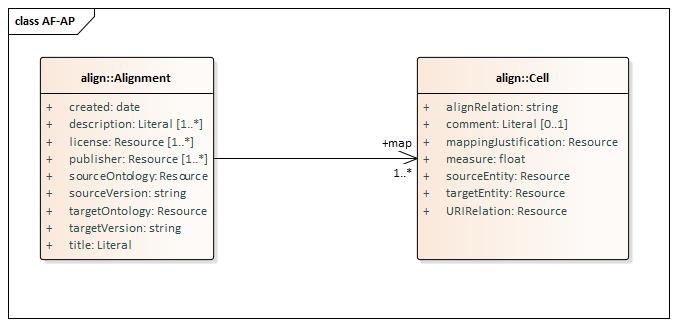
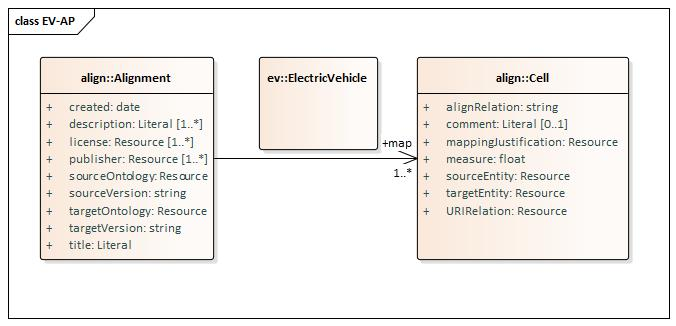
Applying changes from commit d254b9c88d013ba6c291551ca3da96aa7c431da9

Changed region(s): [[0.3728, 0.1534, 0.5902, 0.4908], [0.0621, 0.0307, 0.0932, 0.092]]

diff --git a/doc/application-profile/ev-ap/index.html b/doc/application-profile/ev-ap/index.html
@@ -99,7 +99,7 @@
               <div class="head" role="metainfo" id="metainfo">
               <dl>
               <dt>Source</dt><dd><a href="https://github.com/SEMICeu/EV-AP/tree/1.0.0/releases/1.0.0">https://github.com/SEMICeu/EV-AP/tree/1.0.0/releases/1.0.0</a></dd>
-              <!--<dt>Changelog</dt><dd><a href="git@uri.semic.eu-thema:SEMICeu/uri.semic.eu-thema.git/blob/8a6225d9e1b6374529c9ea7b6d677d2810afb8b2/CHANGELOG">git@uri.semic.eu-thema:SEMICeu/uri.semic.eu-thema.git/blob/8a6225d9e1b6374529c9ea7b6d677d2810afb8b2/CHANGELOG</a></dd>-->
+              <!--<dt>Changelog</dt><dd><a href="git@uri.semic.eu-thema:SEMICeu/uri.semic.eu-thema.git/blob/2217f96af037456034beb5d91a4e877f62d91733/CHANGELOG">git@uri.semic.eu-thema:SEMICeu/uri.semic.eu-thema.git/blob/2217f96af037456034beb5d91a4e877f62d91733/CHANGELOG</a></dd>-->
               <dt>Feedback</dt><dd><a href="https://github.com/SEMICeu/EV-AP/issues">https://github.com/SEMICeu/EV-AP/issues</a></dd>
               <!--<dt>Registry of standards</dt><dd><a href="EV-AP">EV-AP</a></dd>-->
 
@@ -169,6 +169,7 @@
                       |
                       <a href="#Alignment">Alignment</a> |
                       <a href="#Cell">Cell</a> |
+                      <a href="#ElectricVehicle">Electric Vehicle</a> |
                     </p>
                   </div>
                   
@@ -611,6 +612,22 @@
                   </table>
                 </div>
       			  
+            </div>
+            
+              <div class="region region--no-space-top">
+              <h3 class="h3" id="ElectricVehicle"><a href="http://data.europa.eu/m8g/ElectricVehicle " data-toggle="tooltip" data-content="http://data.europa.eu/m8g/ElectricVehicle " data-placement="right">Electric Vehicle</a></h3>
+                <div class="region region--no-space-top">
+                  <dl>
+                    <dt>Definition</dt><dd>vehicle with atleast one elecrtic engine</dd>
+                    
+		    
+                    <dt>Properties</dt>
+		    
+                    <dd>No properties have been defined for this entity.</dd>
+                    
+                  </dl>
+                </div>
+		
             </div>
             
 

diff --git a/doc/application-profile/ev-ap/index_en.html b/doc/application-profile/ev-ap/index_en.html
@@ -99,7 +99,7 @@
               <div class="head" role="metainfo" id="metainfo">
               <dl>
               <dt>Source</dt><dd><a href="https://github.com/SEMICeu/EV-AP/tree/1.0.0/releases/1.0.0">https://github.com/SEMICeu/EV-AP/tree/1.0.0/releases/1.0.0</a></dd>
-              <!--<dt>Changelog</dt><dd><a href="git@uri.semic.eu-thema:SEMICeu/uri.semic.eu-thema.git/blob/8a6225d9e1b6374529c9ea7b6d677d2810afb8b2/CHANGELOG">git@uri.semic.eu-thema:SEMICeu/uri.semic.eu-thema.git/blob/8a6225d9e1b6374529c9ea7b6d677d2810afb8b2/CHANGELOG</a></dd>-->
+              <!--<dt>Changelog</dt><dd><a href="git@uri.semic.eu-thema:SEMICeu/uri.semic.eu-thema.git/blob/2217f96af037456034beb5d91a4e877f62d91733/CHANGELOG">git@uri.semic.eu-thema:SEMICeu/uri.semic.eu-thema.git/blob/2217f96af037456034beb5d91a4e877f62d91733/CHANGELOG</a></dd>-->
               <dt>Feedback</dt><dd><a href="https://github.com/SEMICeu/EV-AP/issues">https://github.com/SEMICeu/EV-AP/issues</a></dd>
               <!--<dt>Registry of standards</dt><dd><a href="EV-AP">EV-AP</a></dd>-->
 
@@ -169,6 +169,7 @@
                       |
                       <a href="#Alignment">Alignment</a> |
                       <a href="#Cell">Cell</a> |
+                      <a href="#ElectricVehicle">Electric Vehicle</a> |
                     </p>
                   </div>
                   
@@ -611,6 +612,22 @@
                   </table>
                 </div>
       			  
+            </div>
+            
+              <div class="region region--no-space-top">
+              <h3 class="h3" id="ElectricVehicle"><a href="http://data.europa.eu/m8g/ElectricVehicle " data-toggle="tooltip" data-content="http://data.europa.eu/m8g/ElectricVehicle " data-placement="right">Electric Vehicle</a></h3>
+                <div class="region region--no-space-top">
+                  <dl>
+                    <dt>Definition</dt><dd>vehicle with atleast one elecrtic engine</dd>
+                    
+		    
+                    <dt>Properties</dt>
+		    
+                    <dd>No properties have been defined for this entity.</dd>
+                    
+                  </dl>
+                </div>
+		
             </div>
             
 
